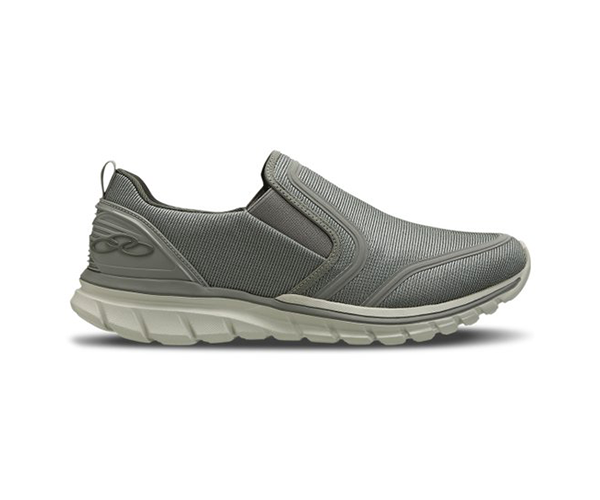
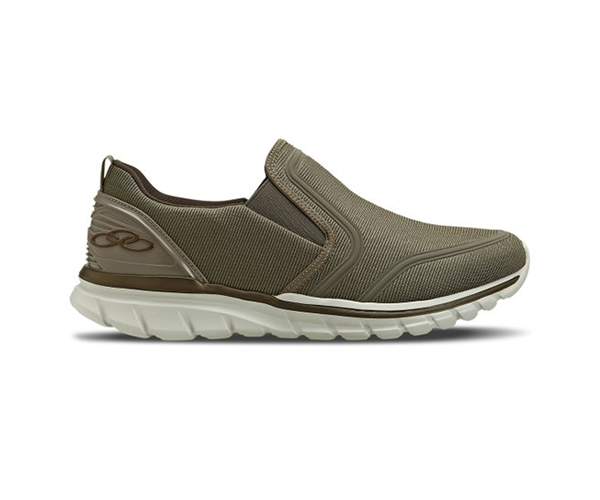
Animação e script da troca de imagens através dos radios

Changed region(s): [[0.12, 0.27, 0.9, 0.72]]

diff --git a/js/script.js b/js/script.js
@@ -4,4 +4,5 @@ $(".product-colors span").click(function(){
   $("body").css("background", $(this).attr("data-color")); // Troca de cor de fundo
   $(".product-price").css("color", $(this).attr("data-color")); // Troca de cor do preço
   $(".product-button").css("color",$(this).attr("data-color")); // Troca de cor do botão
+  $(".product-pic").css("background-image",$(this).attr("data-pic")); // Troca de imagens dos tênis (Difentes cores)
 })

diff --git a/index.html b/index.html
@@ -11,7 +11,7 @@
 <body>
   <div class="product-card">
 
-    <h1>Tênis Olympikus Urban Masculino - Chumbo</h1>
+    <h1>Tênis Olympikus Urban Masculino</h1>
     <p>O design slip on com elástico lateral dispensa amarração e facilita o calce.</p>
 
     <div class="product-pic"></div>

diff --git a/css/style.css b/css/style.css
@@ -49,6 +49,7 @@ body {
   height: 12.5rem;
   background-size: cover;
   background-position: center;
+  transition: .6s linear
 }
 
 .product-colors {
